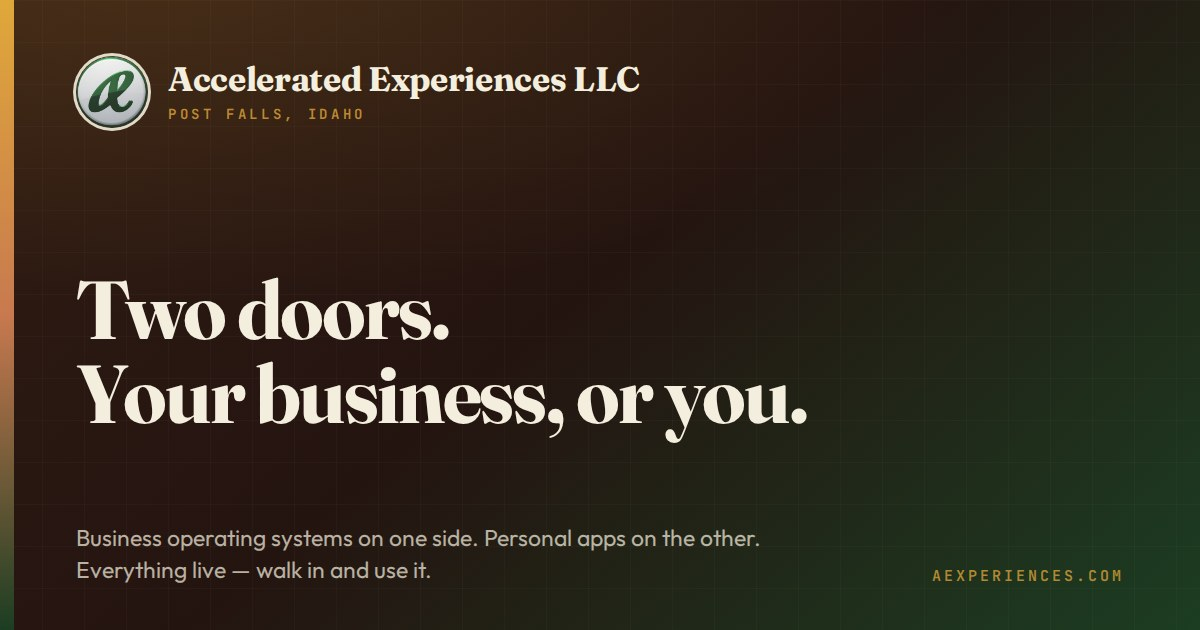
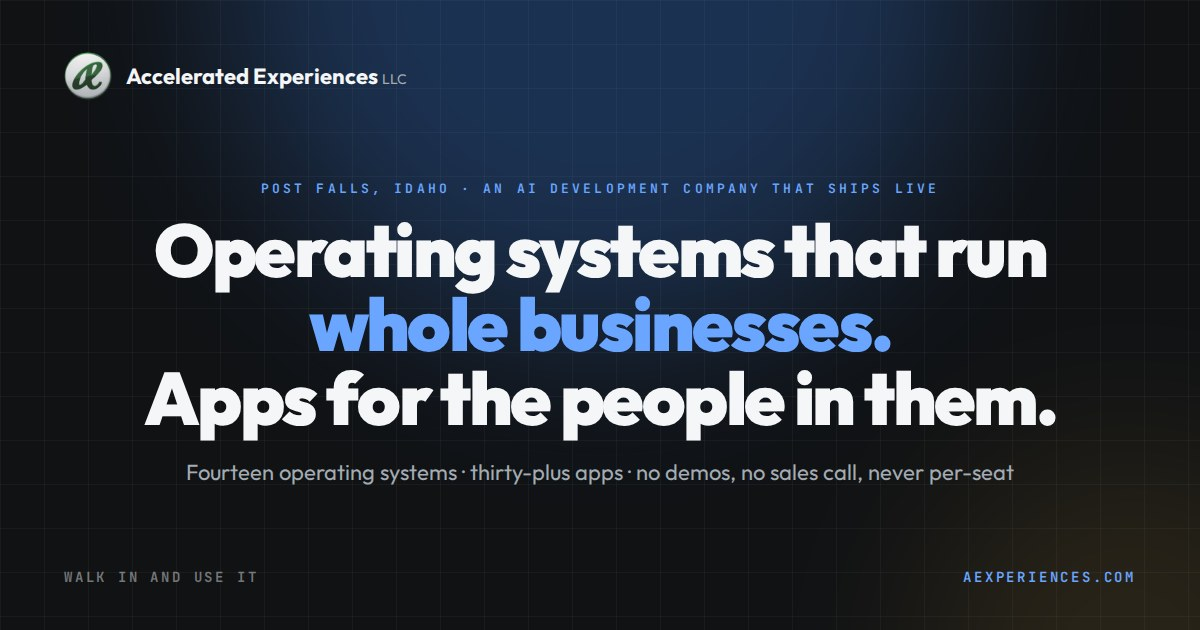
Homepage rebuilt — Charcoal & Electric, two doors, all fourteen OS live, the cast, the B~Log, Brian on the right

diff --git a/index.html b/index.html
@@ -1,174 +1,189 @@
-<!doctype html>
-<html lang="en">
-<head>
-<meta charset="utf-8">
-<meta name="viewport" content="width=device-width,initial-scale=1">
-<title>Business Operating System Software for Small Business — Accelerated Experiences LLC</title>
-<meta name="description" content="Operating systems for 14 industries — dental, tattoo, real estate, engineering, theater, field service and more — plus learning, music and focus apps for you. Walk in and try them live. No sales call.">
+<!doctype html><html lang="en"><head>
+<meta charset="utf-8"><meta name="viewport" content="width=device-width,initial-scale=1">
+<title>Accelerated Experiences LLC — operating systems that run whole businesses, and apps for the people in them</title>
+<meta name="description" content="An AI development company in Post Falls, Idaho. Fourteen business operating systems, one per trade, and more than thirty apps for people — all live. No demos, no sales call, never per-seat. Walk in and use it.">
 <link rel="canonical" href="https://www.aexperiences.com/">
-<meta property="og:title" content="Two doors. Your business, or you.">
-<meta property="og:description" content="14 business operating systems on one side. 28 personal apps on the other. Walk in and try them live.">
-<meta property="og:type" content="website">
-<meta property="og:url" content="https://www.aexperiences.com/">
-<meta property="og:image" content="https://www.aexperiences.com/site-card.jpg"><meta property="og:image:width" content="1200"><meta property="og:image:height" content="630"><meta property="og:image:alt" content="Accelerated Experiences LLC — two doors: your business, or you."><meta name="twitter:image" content="https://www.aexperiences.com/site-card.jpg">
-<meta name="twitter:card" content="summary_large_image">
+<meta property="og:type" content="website"><meta property="og:title" content="Accelerated Experiences LLC"><meta property="og:description" content="An AI development company in Post Falls, Idaho. Fourteen business operating systems, one per trade, and more than thirty apps for people — all live. No demos, no sales call, never per-seat. Walk in and use it."><meta property="og:url" content="https://www.aexperiences.com/"><meta property="og:image" content="https://www.aexperiences.com/site-card.jpg"><meta property="og:image:width" content="1200"><meta property="og:image:height" content="630"><meta name="twitter:card" content="summary_large_image"><meta name="twitter:image" content="https://www.aexperiences.com/site-card.jpg">
 <link rel="icon" href="/ae-disc.png">
-<script type="application/ld+json">
-{"@context":"https://schema.org","@type":"Organization","name":"Accelerated Experiences LLC",
-"url":"https://www.aexperiences.com/","logo":"https://www.aexperiences.com/ae-disc.png",
-"address":{"@type":"PostalAddress","addressLocality":"Post Falls","addressRegion":"ID","addressCountry":"US"},
-"description":"Business operating system software for 14 industries, plus consumer learning, music and focus apps."}
-</script>
-<link rel="preconnect" href="https://fonts.googleapis.com"><link rel="preconnect" href="https://fonts.gstatic.com" crossorigin>
-<link href="https://fonts.googleapis.com/css2?family=Fraunces:opsz,wght@9..144,500;9..144,700&family=IBM+Plex+Sans:wght@400;500;600;700&family=IBM+Plex+Mono:wght@500&display=swap" rel="stylesheet">
+<link rel="preconnect" href="https://fonts.googleapis.com"><link rel="preconnect" href="https://fonts.gstatic.com" crossorigin><link href="https://fonts.googleapis.com/css2?family=Outfit:wght@400;500;600;700;800;900&family=Fraunces:opsz,wght@9..144,500;9..144,600&family=JetBrains+Mono:wght@500;600&display=swap" rel="stylesheet">
 <style>
-  :root{
-    --espresso:#2a1810; --forest:#1c3d22; --gold:#e0a83a; --ink:#f2f0ea;
-    --warm:#f4eede; --warm2:#efe2cf; --clay:#c8794f; --clay-deep:#9c5a33; --brown:#33261a;
-  }
-  *{margin:0;padding:0;box-sizing:border-box}
-  body{font-family:'IBM Plex Sans',system-ui,sans-serif;background:#2a1810}
-  .wrap{display:flex;height:100vh;width:100vw;position:relative}
-  @media (prefers-reduced-motion:reduce){.field{animation:none!important}.side{transition:none!important}}
-  .side:focus-visible{outline:3px solid var(--gold);outline-offset:-3px}
-  .side{position:relative;flex:1;display:flex;align-items:center;justify-content:center;cursor:pointer;
-        overflow:hidden;transition:flex .55s cubic-bezier(.22,.9,.24,1);text-decoration:none}
-  .wrap:has(.biz:hover) .biz{flex:1.42}
-  .wrap:has(.you:hover) .you{flex:1.42}
-  .biz{background:radial-gradient(120% 120% at 20% 10%,var(--forest) 0%,var(--espresso) 60%)}
-  .you{background:radial-gradient(120% 120% at 80% 10%,#fbf6ec 0%,var(--warm) 55%,var(--warm2) 100%)}
-  /* drifting icon fields */
-  .field{position:absolute;inset:-10%;display:grid;grid-template-columns:repeat(4,1fr);gap:6vh;
-         opacity:.14;pointer-events:none;filter:saturate(1.1)}
-  .field img{width:6.2vw;min-width:64px;max-width:104px;border-radius:22%;justify-self:center;align-self:center}
-  .biz .field{animation:driftUp 60s linear infinite}
-  .you .field{animation:driftDn 70s linear infinite}
-  @keyframes driftUp{from{transform:translateY(0) rotate(0.001deg)}to{transform:translateY(-12%)}}
-  @keyframes driftDn{from{transform:translateY(-12%)}to{transform:translateY(0)}}
-  .side:hover .field{opacity:.22}
-  /* content */
-  .inner{position:relative;z-index:2;text-align:center;padding:0 6vw;max-width:640px}
-  .kick{font-family:'IBM Plex Mono',monospace;font-size:13px;letter-spacing:.28em;text-transform:uppercase}
-  .biz .kick{color:var(--gold)} .you .kick{color:var(--clay-deep)}
-  h1{font-family:Fraunces,serif;font-weight:700;line-height:1.02;margin:14px 0 18px}
-  .biz h1{color:var(--ink);font-size:clamp(34px,4.6vw,64px)}
-  .you h1{color:var(--brown);font-size:clamp(34px,4.6vw,64px)}
-  .sub{font-size:clamp(15px,1.2vw,18px);line-height:1.55}
-  .biz .sub{color:#d9cdbb} .you .sub{color:#6d5b45}
-  .cta{display:inline-block;margin-top:30px;padding:15px 34px;border-radius:999px;font-weight:700;
-       font-size:16px;letter-spacing:.02em;transition:transform .2s}
-  .biz .cta{background:var(--gold);color:#241a08}
-  .you .cta{background:var(--clay);color:#2a1810}
-  .side:hover .cta{transform:translateY(-2px) scale(1.04)}
-  .count{margin-top:14px;font-family:'IBM Plex Mono',monospace;font-size:12.5px;letter-spacing:.12em}
-  .biz .count{color:#a08a6d} .you .count{color:#a08a6d}
-  /* center seam + mark */
-  .seam{position:absolute;left:50%;top:0;bottom:0;width:1px;z-index:3;
-        background:linear-gradient(180deg,transparent,rgba(224,168,58,.8),transparent);pointer-events:none}
-  .disc{position:absolute;left:50%;top:50%;transform:translate(-50%,-50%);z-index:4;width:86px;height:86px;
-        border-radius:50%;background:#1e1009;border:2px solid var(--gold);display:flex;align-items:center;
-        justify-content:center;pointer-events:none;box-shadow:0 8px 40px rgba(0,0,0,.5)}
-  .disc img{width:62px;height:62px;border-radius:50%}
-  /* white label ribbon — standout, not focal */
-  .wl{position:absolute;left:26px;bottom:24px;z-index:5;max-width:330px;border:1px solid rgba(224,168,58,.55);
-      border-radius:12px;padding:10px 14px;color:#e3dacb;font-size:12.5px;line-height:1.5;
-      background:rgba(42,24,16,.55);backdrop-filter:blur(4px)}
-  .wl b{color:var(--gold)} .wl a{color:var(--gold);text-decoration:none;font-weight:600}
-  /* footer */
-  .foot{position:absolute;right:22px;bottom:22px;z-index:5;font-size:12px;color:#6d5b45;
-        font-family:'IBM Plex Mono',monospace;letter-spacing:.06em}
-  .foot a{color:var(--clay-deep);font-weight:600;text-decoration:underline;text-underline-offset:3px;text-decoration-thickness:1.5px}
-  .foot a:hover{color:var(--brown)}
-  @media (max-width:760px){
-    .wrap{flex-direction:column}
-    .seam{left:0;right:0;top:50%;bottom:auto;width:auto;height:1px;
-          background:linear-gradient(90deg,transparent,rgba(224,168,58,.8),transparent)}
-    .disc{top:50%}
-    .field{grid-template-columns:repeat(5,1fr)} .field img{width:12vw}
-    .wl{display:none}
-  }
+:root{--bg:#101214;--bg2:#16191c;--bg3:#1c2024;--ink:#f5f6f7;--ink2:#a3abb3;--ink3:#6f7780;--line:rgba(255,255,255,.10);--acc:#3d8bff;--acc2:#6aa6ff;--gold:#e0a83a;--green:#2e8b57;--wrap:1160px;--ease:cubic-bezier(.22,1,.36,1)}
+*{margin:0;padding:0;box-sizing:border-box}
+html{scroll-behavior:smooth;-webkit-text-size-adjust:100%}
+body{font-family:'Outfit',system-ui,sans-serif;background:var(--bg);color:var(--ink);line-height:1.5;overflow-x:hidden}
+a{color:inherit;text-decoration:none}
+img{max-width:100%;display:block}
+.wrap{max-width:var(--wrap);margin:0 auto;padding:0 28px}
+.mono{font-family:'JetBrains Mono',monospace}
+.kick{font:600 11px/1 'JetBrains Mono',monospace;letter-spacing:.22em;text-transform:uppercase;color:var(--acc2)}
+h1,h2,h3{letter-spacing:-.025em;line-height:1.05}
+.serif{font-family:'Fraunces',Georgia,serif;font-weight:600}
+/* nav */
+.nav{position:sticky;top:0;z-index:50;background:rgba(11,13,15,.82);backdrop-filter:blur(14px);-webkit-backdrop-filter:blur(14px);border-bottom:1px solid var(--line)}
+.nav .wrap{display:flex;align-items:center;gap:14px;height:66px}
+.brand{display:flex;align-items:center;gap:11px;font-weight:700;font-size:15px}
+.brand img{width:34px;height:34px;border-radius:50%}
+.brand small{font-weight:400;color:var(--ink2);font-size:11px;margin-left:2px}
+.nav nav{margin-left:auto;display:flex;gap:22px;font-size:14px;font-weight:500;color:var(--ink2)}
+.nav nav a:hover,.nav nav a.on{color:var(--ink)}
+.btn{display:inline-flex;align-items:center;gap:8px;font-weight:700;font-size:14px;padding:11px 18px;border-radius:999px;background:var(--acc);color:#fff;transition:.18s var(--ease);box-shadow:0 8px 24px rgba(61,139,255,.25)}
+.btn:hover{background:var(--acc2);transform:translateY(-1px)}
+.btn.ghost{background:transparent;border:1px solid var(--line);color:var(--ink);box-shadow:none}
+.btn.ghost:hover{border-color:var(--acc);color:var(--acc2)}
+.menu-btn{display:none;margin-left:auto;background:none;border:1px solid var(--line);color:var(--ink);border-radius:10px;padding:8px 10px;font-size:18px;line-height:1}
+/* grid overlay */
+.gridov{position:absolute;inset:0;pointer-events:none;background-image:linear-gradient(rgba(255,255,255,.035) 1px,transparent 1px),linear-gradient(90deg,rgba(255,255,255,.035) 1px,transparent 1px);background-size:44px 44px;mask-image:radial-gradient(70% 60% at 50% 0%,#000 30%,transparent 100%);-webkit-mask-image:radial-gradient(70% 60% at 50% 0%,#000 30%,transparent 100%)}
+.glow{position:absolute;pointer-events:none;border-radius:50%;filter:blur(80px);opacity:.55}
+/* sections */
+section{position:relative;padding:88px 0}
+.sec-h{max-width:720px;margin-bottom:40px}
+.sec-h h2{font-size:clamp(30px,4.4vw,46px);font-weight:800;margin:12px 0 14px}
+.sec-h p{font-size:18px;color:var(--ink2)}
+.card{background:var(--bg2);border:1px solid var(--line);border-radius:20px;padding:26px;transition:.2s var(--ease)}
+.card:hover{border-color:rgba(61,139,255,.45);transform:translateY(-2px)}
+.card h3{font-size:19px;font-weight:700;margin-bottom:6px}
+.card p{font-size:14.5px;color:var(--ink2)}
+.rule{height:1px;background:linear-gradient(90deg,transparent,var(--line),transparent)}
+/* footer */
+footer{border-top:1px solid var(--line);background:#0b0d0f;padding:54px 0 34px}
+footer .cols{display:grid;grid-template-columns:1.4fr 1fr 1fr 1fr;gap:30px}
+footer h4{font:600 11px/1 'JetBrains Mono',monospace;letter-spacing:.2em;text-transform:uppercase;color:var(--ink3);margin-bottom:14px}
+footer li{list-style:none;margin:8px 0;font-size:14px;color:var(--ink2)}footer li a:hover{color:var(--ink)}
+footer .fine{margin-top:36px;padding-top:20px;border-top:1px solid var(--line);display:flex;justify-content:space-between;gap:14px;flex-wrap:wrap;font:500 11px/1.5 'JetBrains Mono',monospace;letter-spacing:.06em;color:var(--ink3)}
+@media(max-width:860px){.nav nav{display:none}.nav .btn{display:none}.menu-btn{display:block}.nav.open nav{display:flex;position:absolute;left:0;right:0;top:66px;flex-direction:column;background:#0b0d0f;border-bottom:1px solid var(--line);padding:16px 28px 22px;gap:14px}footer .cols{grid-template-columns:1fr 1fr}section{padding:64px 0}}
 </style>
-</head>
-<body>
-<div class="wrap">
+<style>
+.hero{position:relative;overflow:hidden;padding:96px 0 70px}
+.hero .glow.a{width:820px;height:820px;background:#3d8bff;top:-420px;left:50%;margin-left:-410px;opacity:.22}
+.hero .glow.b{width:420px;height:420px;background:#e0a83a;bottom:-260px;right:-140px;opacity:.12}
+.hero .in{position:relative;text-align:center;max-width:960px;margin:0 auto}
+.hero h1{font-size:clamp(44px,7vw,92px);font-weight:900;margin:18px 0 22px;letter-spacing:-.035em}
+.hero h1 em{font-style:normal;color:var(--acc2)}
+.hero .lede{font-size:clamp(17px,2vw,21px);color:var(--ink2);max-width:720px;margin:0 auto}
+.hero .cta{display:flex;gap:12px;justify-content:center;margin-top:32px;flex-wrap:wrap}
+.ticker{margin-top:56px;display:flex;justify-content:center;gap:34px;flex-wrap:wrap;font:600 12px 'JetBrains Mono',monospace;letter-spacing:.18em;text-transform:uppercase;color:var(--ink3)}
+.ticker b{color:var(--ink);font-weight:700}
+.doors{display:grid;grid-template-columns:1fr 1fr;gap:18px}
+.door{position:relative;background:var(--bg2);border:1px solid var(--line);border-radius:26px;padding:34px;overflow:hidden;transition:.2s var(--ease)}
+.door:hover{border-color:rgba(61,139,255,.45);transform:translateY(-2px)}
+.door h2{font-size:clamp(26px,3vw,36px);font-weight:800;margin:10px 0 10px}
+.door p{color:var(--ink2);font-size:16px;max-width:460px}
+.door .meta{font:600 11px 'JetBrains Mono',monospace;letter-spacing:.18em;text-transform:uppercase;color:var(--acc2);margin-top:18px}
+.door .go{display:inline-flex;align-items:center;gap:8px;margin-top:22px;font-weight:700;color:var(--ink)}
+.door .go:hover{color:var(--acc2)}
+.grid{display:grid;grid-template-columns:repeat(7,1fr);gap:12px}
+.os{background:var(--bg2);border:1px solid var(--line);border-radius:18px;padding:14px 12px 14px;display:flex;flex-direction:column;gap:3px;transition:.18s var(--ease)}
+.os:hover{border-color:rgba(61,139,255,.5);transform:translateY(-3px);box-shadow:0 14px 34px rgba(0,0,0,.4)}
+.os img{width:54px;height:54px;border-radius:14px;margin-bottom:8px}
+.os b{font-size:14px;font-weight:700;line-height:1.15}
+.os span{font-size:11.5px;color:var(--ink2);line-height:1.3}
+.os em{font-style:normal;font:600 10.5px 'JetBrains Mono',monospace;color:var(--acc2);margin-top:6px}
+.grid.p{grid-template-columns:repeat(6,1fr)}
+.rules{display:grid;grid-template-columns:repeat(3,1fr);gap:16px}
+.rules .n{font:600 11px 'JetBrains Mono',monospace;color:var(--acc2);letter-spacing:.2em;margin-bottom:12px}
+.cast{display:grid;grid-template-columns:repeat(3,1fr);gap:16px}
+.cast .card{display:flex;gap:16px;align-items:center}
+.cast img{width:74px;height:74px;border-radius:50%;object-fit:cover;border:2px solid var(--acc);flex:none}
+.cast .role{font:600 10.5px 'JetBrains Mono',monospace;letter-spacing:.16em;text-transform:uppercase;color:var(--acc2)}
+.cast h3{font-size:17px;margin:2px 0 4px}.cast p{font-size:13.5px;margin:0}
+.posts{display:grid;grid-template-columns:repeat(3,1fr);gap:16px}
+.post{background:var(--bg2);border:1px solid var(--line);border-radius:20px;overflow:hidden;transition:.2s var(--ease)}
+.post:hover{border-color:rgba(61,139,255,.45);transform:translateY(-2px)}
+.post img{width:100%;aspect-ratio:1200/630;object-fit:cover}
+.post div{padding:16px 18px 20px}
+.post .k{font:600 10.5px 'JetBrains Mono',monospace;letter-spacing:.16em;text-transform:uppercase;color:var(--acc2)}
+.post h3{font-size:18px;margin:6px 0 6px}.post p{font-size:13.5px;color:var(--ink2)}
+.band{background:linear-gradient(135deg,rgba(61,139,255,.18),rgba(224,168,58,.10));border:1px solid rgba(61,139,255,.35);border-radius:28px;padding:48px;display:grid;grid-template-columns:1.2fr .8fr;gap:30px;align-items:center}
+.band h2{font-size:clamp(28px,4vw,40px);font-weight:800}.band p{color:var(--ink2);font-size:17px;margin-top:10px}
+.band .side{display:flex;flex-direction:column;gap:10px;align-items:flex-start}
+@media(max-width:1100px){.grid{grid-template-columns:repeat(4,1fr)}.grid.p{grid-template-columns:repeat(3,1fr)}}
+@media(max-width:900px){.doors,.band{grid-template-columns:1fr}.rules,.cast,.posts{grid-template-columns:1fr}.band{padding:30px}}
+@media(max-width:600px){.grid,.grid.p{grid-template-columns:repeat(2,1fr)}.hero{padding:64px 0 50px}}
+</style>
+<script type="application/ld+json">{"@context":"https://schema.org","@type":"Organization","name":"Accelerated Experiences LLC","url":"https://www.aexperiences.com/","logo":"https://www.aexperiences.com/ae-disc.png","email":"anthonye@aexperiences.studio","address":{"@type":"PostalAddress","addressLocality":"Post Falls","addressRegion":"ID","addressCountry":"US"},"founder":{"@type":"Person","name":"Anthony Esposito","jobTitle":"Digital & Creative Engineer/Founder"},"sameAs":["https://www.youtube.com/@aexperiences"]}</script>
+</head><body>
+<header class="nav" id="top"><div class="wrap">
+  <a class="brand" href="/" aria-label="Accelerated Experiences LLC — home"><img src="/ae-disc.png" alt="">Accelerated Experiences<small>LLC</small></a>
+  <button class="menu-btn" aria-label="Menu" onclick="this.closest('.nav').classList.toggle('open')">☰</button>
+  <nav><a href="/" class="on">Home</a><a href="/shop.html">The Store</a><a href="/blog/">B~Log</a><a href="/studio.html">Studio</a><a href="/about.html">About</a><a href="https://aexperiences.studio/">AE Hub</a></nav>
+  <a class="btn" href="/shop.html">Enter the store</a>
+</div></header>
+<main>
+<section class="hero"><div class="gridov"></div><div class="glow a"></div><div class="glow b"></div>
+<div class="wrap"><div class="in">
+ <span class="kick">Accelerated Experiences LLC · Post Falls, Idaho</span>
+ <h1>Operating systems that run <em>whole businesses.</em><br>Apps for the people in them.</h1>
+ <p class="lede">An AI development company that ships live. Fourteen operating systems, one per trade. More than thirty apps for people. Everything on the shelf is open right now — no demo, no sales call, never per-seat.</p>
+ <div class="cta"><a class="btn" href="/shop.html">Walk into the store</a><a class="btn ghost" href="#" onclick="window.AEConcierge&&window.AEConcierge.open();return false;">Talk to Brian</a></div>
+ <div class="ticker"><span><b>14</b> operating systems</span><span><b>30+</b> apps &amp; games</span><span><b>0</b> demos</span><span><b>0</b> per-seat fees</span><span><b>1</b> family</span></div>
+</div></div></section>
 
-  <a class="side biz" href="/shop.html#a=business" aria-label="Enter the business store">
-    <div class="field" aria-hidden="true">
-      <img loading="lazy" width="104" height="104" src="/os-icons/Truss_OS.png" alt=""><img loading="lazy" width="104" height="104" src="/os-icons/Smiley_OS.png" alt=""><img loading="lazy" width="104" height="104" src="/os-icons/Moments_OS.png" alt=""><img loading="lazy" width="104" height="104" src="/os-icons/Abode_OS.png" alt="">
-      <img loading="lazy" width="104" height="104" src="/os-icons/Musical_OS.png" alt=""><img loading="lazy" width="104" height="104" src="/os-icons/4barrel_OS.png" alt=""><img loading="lazy" width="104" height="104" src="/os-icons/Amphitheater_OS.png" alt=""><img loading="lazy" width="104" height="104" src="/os-icons/Buttress_OS.png" alt="">
-      <img loading="lazy" width="104" height="104" src="/os-icons/8mm_OS.png" alt=""><img loading="lazy" width="104" height="104" src="/os-icons/Sleeves_OS.png" alt=""><img loading="lazy" width="104" height="104" src="/os-icons/Toolbelt_OS.png" alt=""><img loading="lazy" width="104" height="104" src="/os-icons/StayAtHome_OS.png" alt="">
-      <img loading="lazy" width="104" height="104" src="/os-icons/LilNinja_OS.png" alt=""><img loading="lazy" width="104" height="104" src="/os-icons/Targeted_OS.png" alt=""><img loading="lazy" width="104" height="104" src="/os-icons/Truss_OS.png" alt=""><img loading="lazy" width="104" height="104" src="/os-icons/Moments_OS.png" alt="">
-    </div>
-    <div class="inner">
-      <div class="kick">For your business</div>
-      <h1>An operating system for your whole company.</h1>
-      <p class="sub">Fourteen industries. One per door — projects, money, people, AI staff and the paperwork, in one place that runs in a browser.</p>
-      <span class="cta">Enter the Business Store →</span>
-      <div class="count">14 OPERATING SYSTEMS · 3 STANDALONE TOOLS · NO SALES CALL</div>
-    </div>
-  </a>
+<div class="rule"></div>
 
-  <a class="side you" href="/shop.html#a=personal" aria-label="Enter the consumer store">
-    <div class="field" aria-hidden="true">
-      <img loading="lazy" width="104" height="104" src="/logo-music.png" alt=""><img loading="lazy" width="104" height="104" src="/logo-learning.png" alt=""><img loading="lazy" width="104" height="104" src="/logo-genius.png" alt=""><img loading="lazy" width="104" height="104" src="/logo-drama.png" alt="">
-      <img loading="lazy" width="104" height="104" src="/logo-nd.png" alt=""><img loading="lazy" width="104" height="104" src="/logo-narcs.png" alt=""><img loading="lazy" width="104" height="104" src="/logo-social.png" alt=""><img loading="lazy" width="104" height="104" src="/logo-curriculum.png" alt="">
-      <img loading="lazy" width="104" height="104" src="/logo-learning.png" alt=""><img loading="lazy" width="104" height="104" src="/logo-music.png" alt=""><img loading="lazy" width="104" height="104" src="/logo-drama.png" alt=""><img loading="lazy" width="104" height="104" src="/logo-genius.png" alt="">
-    </div>
-    <div class="inner">
-      <div class="kick">For you</div>
-      <h1>Learn. Play. Make. Focus.</h1>
-      <p class="sub">Music you can actually learn and music you can make, games your kids will love, a video editor, and tools that read the fine print and guard your focus. Most of it free to try right now.</p>
-      <span class="cta">Enter the Consumer Store →</span>
-      <div class="count">34 APPS · 30 YOU CAN OPEN NOW · MOST FREE TO TRY</div>
-    </div>
-  </a>
+<section><div class="wrap">
+ <div class="doors">
+  <a class="door" href="/shop.html#a=business"><span class="kick">For your business</span><h2>One system runs the whole company.</h2><p>Scheduling, customers, records, money, staff, the front door — the whole spine, shaped for your trade. Licensed, nothing down. Flat monthly.</p><div class="meta">14 operating systems · all live · never per-seat</div><span class="go">Enter the business store →</span></a>
+  <a class="door" href="/shop.html#a=personal"><span class="kick">For you</span><h2>Learn. Play. Make. Focus.</h2><p>Music you can actually learn, history that's hysterical, a video editor, journals, games your kids will love, and tools that read the fine print. Most free right now. No ads, ever.</p><div class="meta">30+ apps · most free · no accounts</div><span class="go">Enter the personal store →</span></a>
+ </div>
+</div></section>
 
-  <div class="seam" aria-hidden="true"></div>
-  <div class="disc" aria-hidden="true"><img src="/ae-disc.png" alt=""></div>
+<section style="padding-top:0"><div class="wrap">
+ <div class="sec-h"><span class="kick">Behind the business door</span><h2>Fourteen trades. Fourteen operating systems. All open.</h2><p>Tap one and you're inside the real thing.</p></div>
+ <div class="grid"><a class="os" href="/apps/abode/"><img src="/os-icons/Abode_OS.png" alt="" loading="lazy"><b>Abode OS</b><span>Real estate</span><em>$450/mo</em></a><a class="os" href="/apps/buttress/"><img src="/os-icons/Buttress_OS.png" alt="" loading="lazy"><b>Buttress OS</b><span>Architecture</span><em>$550/mo</em></a><a class="os" href="/apps/truss/"><img src="/os-icons/Truss_OS.png" alt="" loading="lazy"><b>Truss OS</b><span>Engineering</span><em>$650/mo</em></a><a class="os" href="/apps/musical/"><img src="/os-icons/Musical_OS.png" alt="" loading="lazy"><b>Musical OS</b><span>Live theater</span><em>$650/mo</em></a><a class="os" href="/apps/8mm/"><img src="/os-icons/8mm_OS.png" alt="" loading="lazy"><b>8mm OS</b><span>Film & production</span><em>$500/mo</em></a><a class="os" href="/apps/amphitheater/"><img src="/os-icons/Amphitheater_OS.png" alt="" loading="lazy"><b>Amphitheater OS</b><span>Concerts & venues</span><em>$600/mo</em></a><a class="os" href="/apps/lilninja/"><img src="/os-icons/LilNinja_OS.png" alt="" loading="lazy"><b>LilNinja OS</b><span>Kids gyms & programs</span><em>$400/mo</em></a><a class="os" href="/apps/moments/"><img src="/os-icons/Moments_OS.png" alt="" loading="lazy"><b>Moments OS</b><span>Photographers & videographers</span><em>$99/mo</em></a><a class="os" href="/apps/smiley/"><img src="/os-icons/Smiley_OS.png" alt="" loading="lazy"><b>Smiley OS</b><span>Dental practices</span><em>$350/mo</em></a><a class="os" href="/apps/sleeves/"><img src="/os-icons/Sleeves_OS.png" alt="" loading="lazy"><b>Sleeves OS</b><span>Tattoo studios</span><em>$250/mo</em></a><a class="os" href="/apps/toolbelt/"><img src="/os-icons/Toolbelt_OS.png" alt="" loading="lazy"><b>Toolbelt OS</b><span>HVAC · plumbing · electrical</span><em>$450/mo</em></a><a class="os" href="/apps/stayathome/"><img src="/os-icons/StayAtHome_OS.png" alt="" loading="lazy"><b>Stay@Home OS</b><span>Home care agencies</span><em>$550/mo</em></a><a class="os" href="/apps/4barrel/"><img src="/os-icons/4barrel_OS.png" alt="" loading="lazy"><b>4barrel OS</b><span>Used-car dealers</span><em>$450/mo</em></a><a class="os" href="/apps/targeted/dashboard"><img src="/os-icons/Targeted_OS.png" alt="" loading="lazy"><b>Targeted OS</b><span>Marketing agencies & studios</span><em>$450/mo</em></a></div>
+</div></section>
 
-  <div class="wl"><b>Make it yours.</b> Every OS can be white-labeled — your brand, your domain,
-    customized to how your business actually runs. <a href="/shop.html#a=business">Ask&nbsp;us&nbsp;→</a></div>
+<section style="padding-top:0"><div class="wrap">
+ <div class="sec-h"><span class="kick">Behind the personal door</span><h2>The ESPO family, and friends.</h2></div>
+ <div class="grid p"><a class="os" href="https://espomusic.com/"><img src="/logo-music.png" alt="" loading="lazy"><b>ESPO Music</b><span>Learn an instrument</span><em>Free right now</em></a><a class="os" href="https://espolearning.com/"><img src="/logo-learning.png" alt="" loading="lazy"><b>ESPO Learning</b><span>Early skills for kids</span><em>Free right now</em></a><a class="os" href="https://espogenius.com/"><img src="/logo-genius.png" alt="" loading="lazy"><b>ESPO Genius</b><span>Plain-English paperwork</span><em>Free right now</em></a><a class="os" href="https://espodrama.com/"><img src="/logo-drama.png" alt="" loading="lazy"><b>ESPO Drama</b><span>Theater & dramatic arts</span><em>Free right now</em></a><a class="os" href="https://neurodivulge.com/"><img src="/logo-nd.png" alt="" loading="lazy"><b>Neuro Divulge</b><span>Regulation tools</span><em>Free right now</em></a><a class="os" href="https://marketnarc.com/open"><img src="/logo-narcs.png" alt="" loading="lazy"><b>The Narcs</b><span>Fine print, decoded</span><em>Free right now</em></a></div>
+ <p style="margin-top:18px"><a class="btn ghost" href="/shop.html#a=personal">All thirty-plus, in the store →</a></p>
+</div></section>
 
-  <div class="foot"><a href="/blog/" aria-label="B~Log — the Accelerated Experiences blog">B~Log</a> · <a href="https://www.youtube.com/@aexperiences" rel="noopener" aria-label="Accelerated Experiences LLC on YouTube — every OS driven live">YouTube</a> · Accelerated Experiences LLC</div>
-</div>
+<div class="rule"></div>
 
-<!-- Below the fold: the crawlable content that keeps our search weight. Scroll reveals it. -->
-<section style="background:#2a1810;color:#ddd2c0;padding:64px 8vw 40px;font-size:15.5px;line-height:1.7">
-  <div style="max-width:960px;margin:0 auto">
-    <h2 style="font-family:Fraunces,serif;color:#f2f0ea;font-size:30px;margin-bottom:10px">Behind the business door</h2>
-    <p style="margin-bottom:18px">An operating system for your whole company — projects, scheduling, invoicing, payroll-ready books,
-    a built-in AI staff and the paperwork, in one place that runs in a browser. One per industry:</p>
-    <p style="margin-bottom:26px">
-      <a href="/hubs/dental.html" style="color:#e0a83a">Dental — Smiley OS</a> ·
-      <a href="/hubs/tattoo.html" style="color:#e0a83a">Tattoo — Sleeves OS</a> ·
-      <a href="/hubs/real-estate.html" style="color:#e0a83a">Real estate — Abode OS</a> ·
-      <a href="/hubs/engineering.html" style="color:#e0a83a">Engineering — Truss OS</a> ·
-      <a href="/hubs/architecture.html" style="color:#e0a83a">Architecture — Buttress OS</a> ·
-      <a href="/hubs/theater.html" style="color:#e0a83a">Theater — Musical OS</a> ·
-      <a href="/hubs/cinema.html" style="color:#e0a83a">Cinema — 8mm OS</a> ·
-      <a href="/hubs/concerts.html" style="color:#e0a83a">Live venues — Amphitheater OS</a> ·
-      <a href="/hubs/kids-gym.html" style="color:#e0a83a">Kids gym — LilNinja OS</a> ·
-      <a href="/hubs/photo-video.html" style="color:#e0a83a">Photo &amp; video — Moments OS</a> ·
-      <a href="/hubs/field-service.html" style="color:#e0a83a">Field service — Toolbelt OS</a> ·
-      <a href="/hubs/home-care.html" style="color:#e0a83a">Home care — Stay@Home OS</a> ·
-      <a href="/hubs/showroom.html" style="color:#e0a83a">Used car — 4barrel OS</a> ·
-      <a href="/hubs/targeted.html" style="color:#e0a83a">Marketing — Targeted OS</a></p>
-    <p style="margin-bottom:36px">Every one opens as a live showroom — the real software, running in your browser, on
-    realistic sample data. You keep 100% of your revenue. Your data leaves with you if you ever go. No sales call.</p>
+<section><div class="wrap">
+ <div class="sec-h"><span class="kick">How we work</span><h2>Three rules. We don't bend them.</h2></div>
+ <div class="rules">
+  <div class="card"><div class="n">01</div><h3>No demos. Ever.</h3><p>No sandbox, no sales call, no waitlist. Every product is live at its own address. Walk in and use it.</p></div>
+  <div class="card"><div class="n">02</div><h3>Never per-seat.</h3><p>You are never charged for adding people to your own business. Flat monthly, licensed, nothing down.</p></div>
+  <div class="card"><div class="n">03</div><h3>Ship in waves.</h3><p>Nothing ships finished. It ships better than yesterday, then ships again. "Free while being tested" means exactly that.</p></div>
+ </div>
+</div></section>
 
-    <h2 style="font-family:Fraunces,serif;color:#f2f0ea;font-size:30px;margin-bottom:10px">Behind the personal door</h2>
-    <p style="margin-bottom:26px">Music you can actually learn with <a href="https://espomusic.com/" style="color:#e0a83a">ESPO Music</a>,
-    early skills in <a href="https://espolearning.com/" style="color:#e0a83a">ESPO Learning</a>, fine-print reading with
-    <a href="https://marketnarc.com/" style="color:#e0a83a">The Narcs</a>, regulation tools in Neuro Divulge, plus games,
-    travel and focus apps — most free to try in the <a href="/shop.html#a=personal" style="color:#e0a83a">consumer store</a>.</p>
+<section style="padding-top:0"><div class="wrap">
+ <div class="sec-h"><span class="kick">The people you'll meet</span><h2>Three of us do the talking.</h2></div>
+ <div class="cast">
+  <a class="card" href="/about.html"><img src="/anthony-esposito.jpg" alt="Anthony Esposito"><div><div class="role">Founder</div><h3>Anthony Esposito</h3><p>Digital &amp; Creative Engineer/Founder. Builds every system on the shelf.</p></div></a>
+  <a class="card" href="#" onclick="window.AEConcierge&&window.AEConcierge.open();return false;"><img src="/brian-shirley.jpg" alt="Brian Shirley"><div><div class="role">COO / Trainer / Coach</div><h3>Brian Shirley</h3><p>Knows every system, every price, and what we can and can't do. He's in the panel on the right.</p></div></a>
+  <a class="card" href="/shop.html#a=personal"><img src="/roz-feely.jpg" alt="Rosalyn P. Feely"><div><div class="role">Director of Operations / Teacher &amp; Trainer</div><h3>Rosalyn P. Feely</h3><p>Runs the apps for people. Reads every story in ESPOhystory.</p></div></a>
+ </div>
+</div></section>
 
-    <p style="border-top:1px solid #4a3123;padding-top:22px;color:#a08a6d;font-size:13px">
-    Accelerated Experiences LLC · Post Falls, Idaho · an Esposito family business ·
-    <a href="/shop.html#a=business" style="color:#e0a83a">Business store</a> ·
-    <a href="/shop.html#a=personal" style="color:#e0a83a">Consumer store</a> ·
-    <a href="/about.html" style="color:#e0a83a">About us</a></p>
-  </div>
-</section>
+<section style="padding-top:0"><div class="wrap">
+ <div class="sec-h"><span class="kick">From the B~Log — our build log</span><h2>What got built this week.</h2></div>
+ <div class="posts">
+  <a class="post" href="/blog/espohystory.html"><img src="/blog/media/card-espohystory.jpg" alt="" loading="lazy"><div><span class="k">The Store · September 5</span><h3>History, But Hysterical</h3><p>Thirty-five true stories, told for laughs. Roz reads three of them right on the page.</p></div></a>
+  <a class="post" href="/blog/xpense-os.html"><img src="/blog/media/card-xpense-os.jpg" alt="" loading="lazy"><div><span class="k">The Store · September 4</span><h3>You Just Say It</h3><p>Say what you spent. Xpense OS does the arithmetic and shows its work. The commercial plays in the post.</p></div></a>
+  <a class="post" href="/blog/my-own-commercials.html"><img src="/blog/media/card-my-own-commercials.jpg" alt="" loading="lazy"><div><span class="k">The Machines · August 21</span><h3>I Make My Own Commercials</h3><p>Pictures, voice and music — all in-house. The beats come out of software we wrote.</p></div></a>
+ </div>
+ <p style="margin-top:18px"><a class="btn ghost" href="/blog/">Read the B~Log →</a></p>
+</div></section>
+
+<section style="padding-top:0"><div class="wrap">
+ <div class="band">
+  <div><span class="kick">The Studio</span><h2>We build our own operating systems. We'll build yours.</h2><p>Websites, custom apps and systems for your trade, brand, film, research. Built from scratch, never handed off. We build a working draft first — then we talk.</p></div>
+  <div class="side"><a class="btn" href="/studio.html">See what we build for clients</a><a class="btn ghost" href="mailto:anthonye@aexperiences.studio?subject=Project%20inquiry">anthonye@aexperiences.studio</a></div>
+ </div>
+</div></section>
+</main>
+<footer><div class="wrap">
+ <div class="cols">
+  <div><a class="brand" href="/"><img src="/ae-disc.png" alt="">Accelerated Experiences<small>LLC</small></a>
+   <p style="color:var(--ink2);font-size:14px;margin-top:14px;max-width:340px">A small family software business in Post Falls, Idaho. Everything we make is live. No demos, ever.</p></div>
+  <div><h4>Go</h4><ul><li><a href="/">Home</a></li><li><a href="/shop.html">The Store</a></li><li><a href="/blog/">B~Log — our build log</a></li><li><a href="/studio.html">Studio — work with us</a></li><li><a href="/about.html">About</a></li></ul></div>
+  <div><h4>Systems</h4><ul><li><a href="https://aexperiences.studio/">AE Hub</a></li><li><a href="/shop.html#business">Business operating systems</a></li><li><a href="/shop.html#personal">Apps for people</a></li><li><a href="https://www.youtube.com/@aexperiences">YouTube — every OS being driven</a></li></ul></div>
+  <div><h4>Reach us</h4><ul><li><a href="mailto:anthonye@aexperiences.studio">anthonye@aexperiences.studio</a></li><li>Post Falls, Idaho</li><li><a href="#" onclick="window.AEConcierge&&window.AEConcierge.open();return false;">Talk to Brian</a></li></ul></div>
+ </div>
+ <div class="fine"><span>© 2026 Accelerated Experiences LLC · Craft first. Claims last.</span><span>Digital &amp; Creative Engineer/Founder: Anthony Esposito</span></div>
+</div></footer>
 <script src="/ae-concierge.js" data-persona="brian" defer></script>
-</body>
-</html>
+</body></html>
